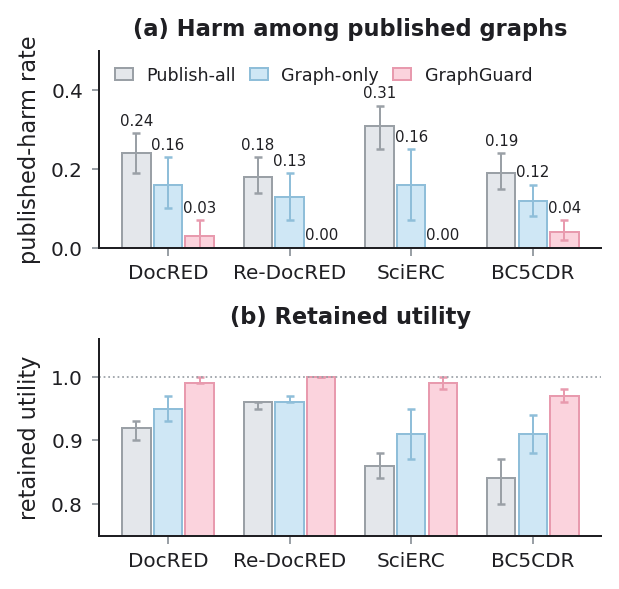
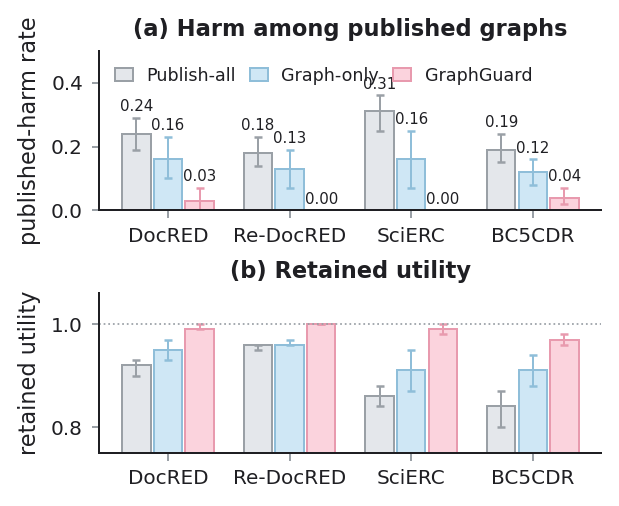
figs: compact release-gate figure (3.6x2.9) for tighter paper layout

diff --git a/scripts/make_gate_figure.py b/scripts/make_gate_figure.py
@@ -68,8 +68,8 @@ def panel(ax, data, ylabel, ylim, annotate=True):
 
 def main() -> int:
     _S.apply_rc(font_size=9)
-    fig, (ax1, ax2) = plt.subplots(2, 1, figsize=(3.6, 3.5),
-                                   gridspec_kw={"hspace": 0.46})
+    fig, (ax1, ax2) = plt.subplots(2, 1, figsize=(3.6, 2.9),
+                                   gridspec_kw={"hspace": 0.52})
     panel(ax1, HARM, "published-harm rate", (0, 0.50))
     ax1.legend(fontsize=7, ncol=3, frameon=False, loc="upper left",
                handlelength=1.0, columnspacing=0.8)
